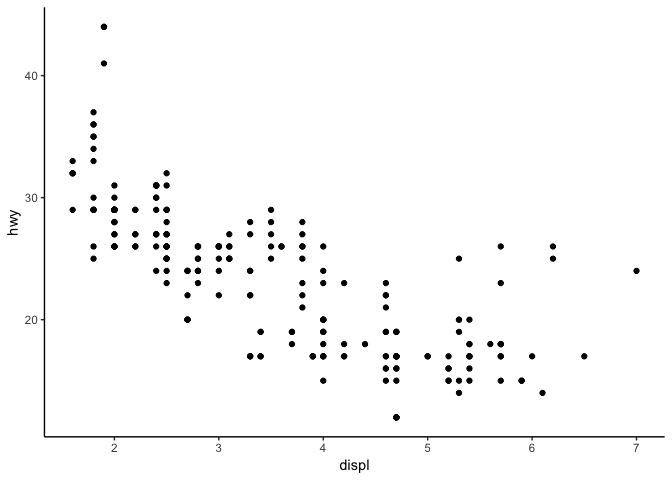
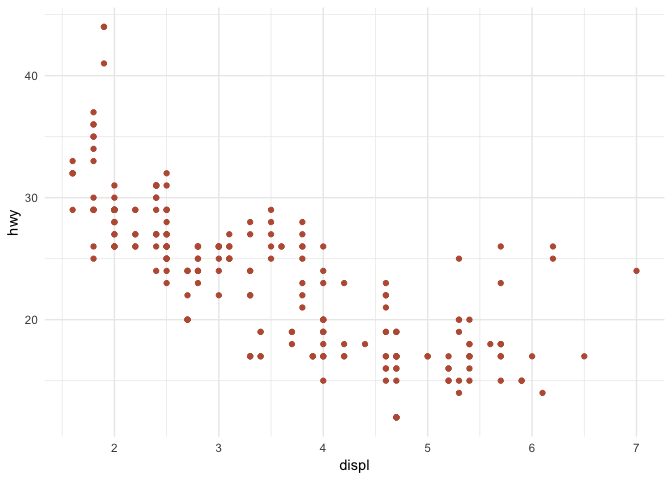
fixed shapes fig

diff --git a/docs/Lesson1.html b/docs/Lesson1.html
@@ -614,7 +614,7 @@ mpg<span class="op">$</span>hwy  <span class="co"># print a column</span></code>
 <span class="kw">ggplot</span>(<span class="dt">data =</span> my_data) <span class="op">+</span><span class="st"> </span><span class="kw">geom_point</span>(<span class="dt">mapping =</span> <span class="kw">aes</span>(<span class="dt">x =</span> displ, <span class="dt">y =</span> hwy)) <span class="op">+</span><span class="st"> </span><span class="kw">theme_minimal</span>()</code></pre></div>
 <p><img src="Lesson1_files/figure-html/unnamed-chunk-9-2.png" /><!-- --></p>
 <div class="sourceCode"><pre class="sourceCode r"><code class="sourceCode r"><span class="co"># assign theme to variable</span>
-my_theme &lt;-<span class="st"> </span><span class="kw">theme_classic</span>()  <span class="co"># assign theme to your own variable </span>
+my_theme &lt;-<span class="st"> </span><span class="kw">theme_minimal</span>()  <span class="co"># assign theme to your own variable </span>
 <span class="kw">ggplot</span>(<span class="dt">data =</span> my_data) <span class="op">+</span><span class="st"> </span><span class="kw">geom_point</span>(<span class="dt">mapping =</span> <span class="kw">aes</span>(<span class="dt">x =</span> displ, <span class="dt">y =</span> hwy)) <span class="op">+</span><span class="st"> </span>my_theme  <span class="co"># add variable defining your chosen theme  </span></code></pre></div>
 <p><img src="Lesson1_files/figure-html/unnamed-chunk-9-3.png" /><!-- -->  </p>
 </div>
@@ -630,11 +630,11 @@ my_theme &lt;-<span class="st"> </span><span class="kw">theme_classic</span>()  
 <div class="sourceCode"><pre class="sourceCode r"><code class="sourceCode r"><span class="kw">ggplot</span>(<span class="dt">data =</span> my_data) <span class="op">+</span><span class="st"> </span><span class="kw">geom_point</span>(<span class="dt">mapping =</span> <span class="kw">aes</span>(<span class="dt">x =</span> displ, <span class="dt">y =</span> hwy), <span class="dt">color =</span> <span class="st">&quot;light blue&quot;</span>) <span class="op">+</span><span class="st"> </span>my_theme</code></pre></div>
 <p><img src="Lesson1_files/figure-html/unnamed-chunk-10-1.png" /><!-- -->  </p>
 <p>Color by a <a href="https://htmlcolorcodes.com/color-picker/">hex code</a> in quotes.</p>
-<div class="sourceCode"><pre class="sourceCode r"><code class="sourceCode r"><span class="kw">ggplot</span>(<span class="dt">data =</span> my_data) <span class="op">+</span><span class="st"> </span><span class="kw">geom_point</span>(<span class="dt">mapping =</span> <span class="kw">aes</span>(<span class="dt">x =</span> displ, <span class="dt">y =</span> hwy), <span class="dt">color =</span> <span class="st">&quot;#000000&quot;</span>) <span class="op">+</span><span class="st"> </span>my_theme</code></pre></div>
+<div class="sourceCode"><pre class="sourceCode r"><code class="sourceCode r"><span class="kw">ggplot</span>(<span class="dt">data =</span> my_data) <span class="op">+</span><span class="st"> </span><span class="kw">geom_point</span>(<span class="dt">mapping =</span> <span class="kw">aes</span>(<span class="dt">x =</span> displ, <span class="dt">y =</span> hwy), <span class="dt">color =</span> <span class="st">&quot;#BB5C42&quot;</span>) <span class="op">+</span><span class="st"> </span>my_theme</code></pre></div>
 <p><img src="Lesson1_files/figure-html/unnamed-chunk-11-1.png" /><!-- -->  </p>
 <p>Color by data column</p>
 <div class="sourceCode"><pre class="sourceCode r"><code class="sourceCode r"><span class="kw">ggplot</span>(<span class="dt">data =</span> my_data) <span class="op">+</span><span class="st"> </span><span class="kw">geom_point</span>(<span class="dt">mapping =</span> <span class="kw">aes</span>(<span class="dt">x =</span> displ, <span class="dt">y =</span> hwy, <span class="dt">color =</span> class)) <span class="op">+</span><span class="st"> </span>my_theme</code></pre></div>
-<p> </p>
+<p><img src="Lesson1_files/figure-html/unnamed-chunk-12-1.png" /><!-- -->  </p>
 </div>
 <div id="size" class="section level2">
 <h2>Size</h2>
@@ -669,8 +669,8 @@ my_theme &lt;-<span class="st"> </span><span class="kw">theme_classic</span>()  
 <div class="sourceCode"><pre class="sourceCode r"><code class="sourceCode r"><span class="kw">ggplot</span>(<span class="dt">data =</span> my_data) <span class="op">+</span><span class="st"> </span><span class="kw">geom_point</span>(<span class="dt">mapping =</span> <span class="kw">aes</span>(<span class="dt">x =</span> displ, <span class="dt">y =</span> hwy, <span class="dt">color =</span> class), <span class="dt">color =</span> <span class="st">&quot;#000000&quot;</span>) <span class="op">+</span><span class="st"> </span>
 <span class="st">    </span>my_theme</code></pre></div>
 <p><img src="Lesson1_files/figure-html/unnamed-chunk-18-1.png" /><!-- -->  </p>
-<p><strong>The inner one is overridden.</strong></p>
-
+<p><strong>The inner one is overridden.</strong><br />
+ </p>
 </div>
 <div id="aesthetics-you-can-manually-set" class="section level2">
 <h2>Aesthetics you can manually set</h2>
@@ -680,9 +680,10 @@ my_theme &lt;-<span class="st"> </span><span class="kw">theme_classic</span>()  
 <li>The shape of a point as a number, as shown in Figure 3.1.</li>
 </ul>
 <center>
-<img src="admin/shapes.png" width="400" />
+<img src="img/shapes.png" width="400" />
 </center>
-<p>R has 25 built in shapes that are identified by numbers. There are some seeming duplicates: for example, 0, 15, and 22 are all squares. The difference comes from the interaction of the <code>colour</code> and <code>fill</code> aesthetics. The hollow shapes (0–14) have a border determined by <code>colour</code>; the solid shapes (15–18) are filled with <code>colour</code>; the filled shapes (21–24) have a border of <code>colour</code> and are filled with <code>fill</code>.</p>
+<p><code>R</code> has 25 built in shapes that are identified by numbers. There are some seeming duplicates: for example, 0, 15, and 22 are all squares. The difference comes from the interaction of the <code>colour</code> and <code>fill</code> aesthetics. The hollow shapes (0–14) have a border determined by <code>colour</code>; the solid shapes (15–18) are filled with <code>colour</code>; the filled shapes (21–24) have a border of <code>colour</code> and are filled with <code>fill</code>.</p>
+
 </div>
 </div>
 <div id="further-plotting-examples" class="section level1">

diff --git a/Lesson1.md b/Lesson1.md
@@ -229,7 +229,7 @@ ggplot(data = my_data) + geom_point(mapping = aes(x = displ, y = hwy)) + theme_m
 
 ```r
 # assign theme to variable
-my_theme <- theme_classic()  # assign theme to your own variable 
+my_theme <- theme_minimal()  # assign theme to your own variable 
 ggplot(data = my_data) + geom_point(mapping = aes(x = displ, y = hwy)) + my_theme  # add variable defining your chosen theme  
 ```
 
@@ -257,7 +257,7 @@ ggplot(data = my_data) + geom_point(mapping = aes(x = displ, y = hwy), color = "
 Color by a [hex code](https://htmlcolorcodes.com/color-picker/) in quotes.  
 
 ```r
-ggplot(data = my_data) + geom_point(mapping = aes(x = displ, y = hwy), color = "#000000") + my_theme
+ggplot(data = my_data) + geom_point(mapping = aes(x = displ, y = hwy), color = "#BB5C42") + my_theme
 ```
 
 ![](Lesson1_files/figure-html/unnamed-chunk-11-1.png)<!-- -->
@@ -268,6 +268,8 @@ Color by data column
 ```r
 ggplot(data = my_data) + geom_point(mapping = aes(x = displ, y = hwy, color = class)) + my_theme
 ```
+
+![](Lesson1_files/figure-html/unnamed-chunk-12-1.png)<!-- -->
 \  
 
 ## Size 
@@ -339,8 +341,7 @@ ggplot(data = my_data) + geom_point(mapping = aes(x = displ, y = hwy, color = cl
 \  
 
 **The inner one is overridden.**     
-
-\newpage      
+\  
 
 ## Aesthetics you can manually set  
 
@@ -348,14 +349,16 @@ ggplot(data = my_data) + geom_point(mapping = aes(x = displ, y = hwy, color = cl
   * The size of a point in mm.
   * The shape of a point as a number, as shown in Figure 3.1. 
   
-  <center>![](admin/shapes.png){width=400px}</center>
+  <center>![](img/shapes.png){width=400px}</center>
   
-R has 25 built in shapes that are identified by numbers. There are some seeming duplicates: for example, 0, 15, and 22 are all squares. The difference comes from the interaction of the `colour` and `fill` aesthetics. The hollow shapes (0--14) have a border determined by `colour`; the solid shapes (15--18) are filled with `colour`; the filled shapes (21--24) have a border of `colour` and are filled with `fill`.  
+`R` has 25 built in shapes that are identified by numbers. There are some seeming duplicates: for example, 0, 15, and 22 are all squares. The difference comes from the interaction of the `colour` and `fill` aesthetics. The hollow shapes (0--14) have a border determined by `colour`; the solid shapes (15--18) are filled with `colour`; the filled shapes (21--24) have a border of `colour` and are filled with `fill`.  
+
+\newpage      
 
 # Further plotting examples    
 [Section 3.3.1](https://r4ds.had.co.nz/data-visualisation.html#exercises-1)  
 
-The online reference contains further examples of how to visualise your data.  
+The online reference contains further examples of how to visualise your data.    
 
 # Reading in outside data: NYC AirBnB data  
 
